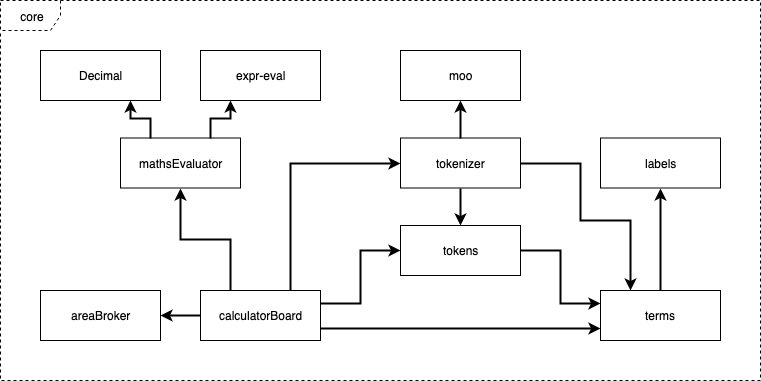
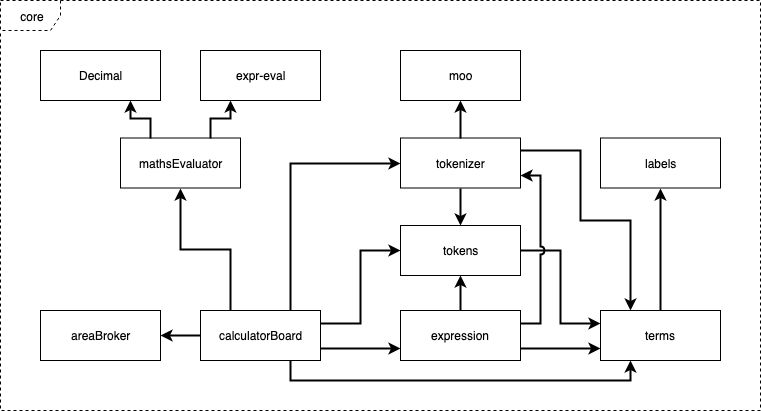
Added last changes regarding the calculator in the doc

diff --git a/articles/Frontend/Components/calculator.md b/articles/Frontend/Components/calculator.md
@@ -275,12 +275,15 @@ loaded by `mathsEvaluator` and then linked to the parser.
 - `tokenizer`: A wrapper factory that initializes and gives access to the lexer
 used to tokenize the expressions. This tokenizer is used to manipulate the
 expression and properly display it.
-- `moo`: The third-party tokenizer that is reponsible to split the expression
+- `moo`: The third-party tokenizer that is responsible to split the expression
 into atomic elements. It is not directly used by the calculator, as it is
 wrapped by the `tokenizer` wrapper factory. 
-- `tokens`: A helper module that ease the processing of tokens (atomic elements)
+- `tokens`: A helper module that eases the processing of tokens (atomic elements)
 extracted from expressions. It provides functions to qualify tokens by
-categories, transform them into string values, or render them in HTML. 
+categories, or transform them into string values. 
+- `expression`: A helper module that eases the processing of expressions. It
+provides functions to check presence of error, or to properly render the
+expression in HTML.
 - `terms`: The list of terms an expression can use. This is used to feed the
 tokenizer's engine and also to get the meaning of each token. 
 - `labels`: The labels corresponding to the terms used in expressions, and the
@@ -673,14 +676,16 @@ It sets the states `degree` and `radian` according to the invoked command.
 
 #### history
 Plugin that manages an history of evaluated expressions in the calculator.
+The related variables are also stored each expression, and restored when
+the expression is reminded.
 
 It exposes the commands:
 - `historyClear`: Clears the history.
 - `historyGet`: Gets the history list, by emitting the event `history`.
 - `historyUp`: Remind the previous expression in the history, replacing the
-displayed expression by the reminded one.
+displayed expression by the reminded one. Related variables are also restored.
 - `historyDown`: Remind the next expression in the history, replacing the
-displayed expression by the reminded one.
+displayed expression by the reminded one. Related variables are also restored.
 
 #### remind
 Plugin that manages a simple value reminder in the calculator. It keeps track of
@@ -798,8 +803,6 @@ This plugin is quite complex, so here is a summarize of what it is doing.
 When the `sign` command is invoked, the expression is tokenized, and then the
 following strategies are applies:
 - if the expression only contains `0`, nothing is made
-- if the expression only contains the last result variable, its value is
-inlined before applying the sign change
 - based on what is under the cursor:
     - numeric value:
         - the operand is the first of the expression, so the sign is implicit +,
